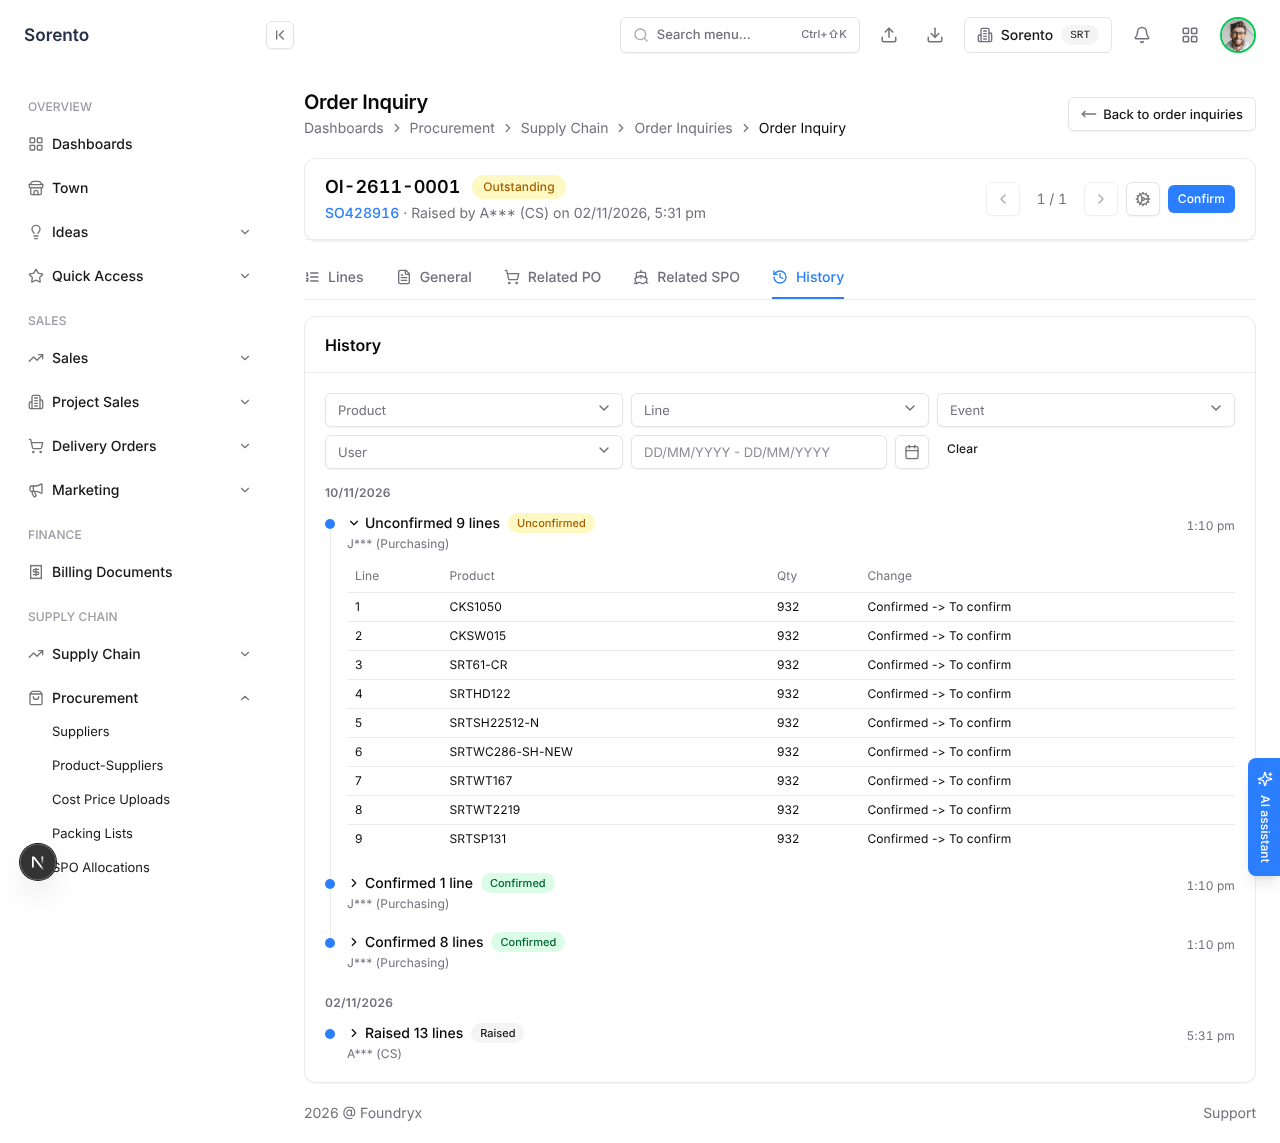
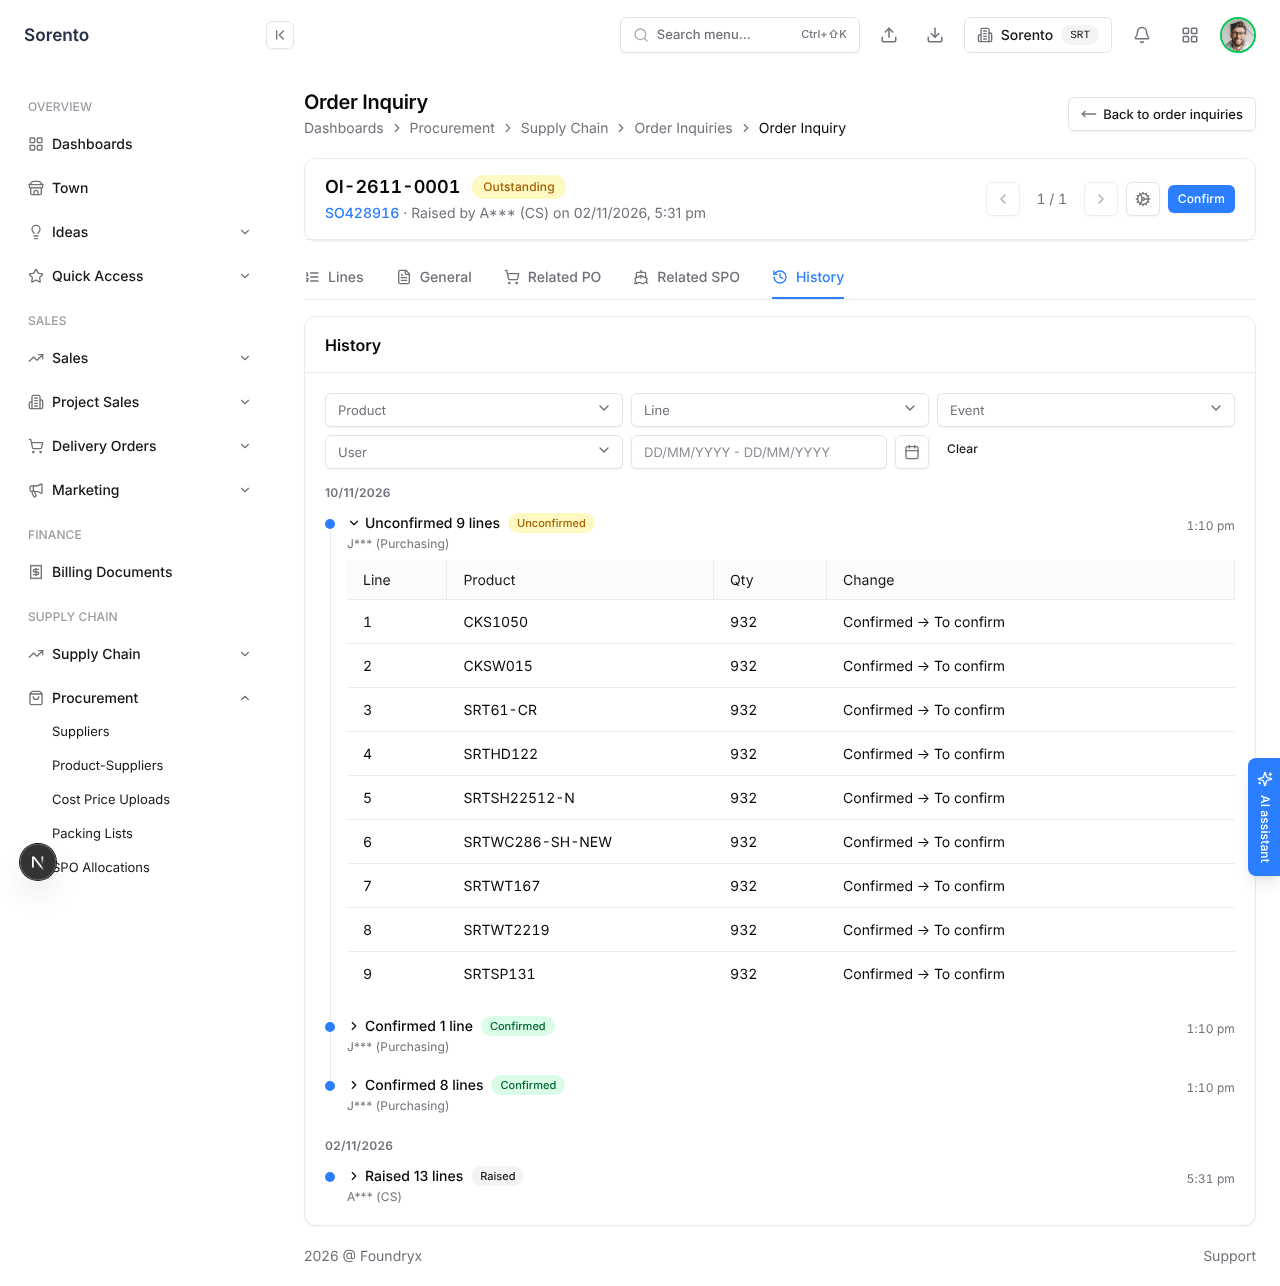
STANDARD-HISTORY wave 1: event lines in the standard DataGrid (M5-06 raw-table guard), refreshed browser evidence [skip ci]
Claude-Session: https://claude.ai/code/session_01EKXEHjy5Ljp9hHMAEtqsHU

diff --git a/sorento_crm_frontend/components/history/RecordHistory.tsx b/sorento_crm_frontend/components/history/RecordHistory.tsx
@@ -6,7 +6,9 @@ import { Badge } from '@/components/ui/badge';
 import { Button } from '@/components/ui/button';
 import { DateRangePicker } from '@/components/ui/date-range-picker';
 import { Skeleton } from '@/components/ui/skeleton';
-import { Table, TableBody, TableCell, TableHead, TableHeader, TableRow } from '@/components/ui/table';
+import { type ColumnDef, getCoreRowModel, useReactTable } from '@tanstack/react-table';
+import { DataGrid } from '@/components/ui/data-grid';
+import { DataGridTable } from '@/components/ui/data-grid-table';
 import { SearchableSelect } from '@/components/common/SearchableSelect';
 import { SearchableMultiSelect } from '@/components/common/SearchableMultiSelect';
 import { EventTimeline, type TimelineEvent } from '@/components/common/EventTimeline';
@@ -21,8 +23,8 @@ export type { RecordHistoryEvent, RecordHistoryLine };
  * components that we had in the system, don't invent new things" - so this is the SO History
  * drawer's own body (`PlanningHistorySheet.tsx`) lifted out of its Sheet: the same filters
  * (SearchableSelect / SearchableMultiSelect / DateRangePicker / Clear), the same
- * `EventTimeline`, the same light `Badge`, and the same expand-to-lines table. Nothing here
- * is a new visual.
+ * `EventTimeline`, the same light `Badge`, and the same expand-to-lines read. The lines are
+ * the standard `DataGrid` (M5-06 forbids a new raw table). Nothing here is a new visual.
  *
  * A batch press (one Unconfirm that moved 9 lines) is ONE event whose `lines` name every
  * row; a Product or Line filter narrows the lines shown and keeps the event whole.
@@ -49,31 +51,77 @@ function isoDay(at: string | null): string | null {
   return y && m && d ? `${y}-${m}-${d}` : null;
 }
 
+function Truncated({ text }: { text: string }) {
+  return (
+    <span className="block truncate" title={text}>
+      {text}
+    </span>
+  );
+}
+
+/** One row per line, in the standard DataGrid (M5-06: no raw tables), the OI line History
+ * dialog's own fixed, resizable read-only grid (`OrderInquiryLineHistoryDialog.tsx`). */
+const LINE_COLUMNS: ColumnDef<RecordHistoryLine>[] = [
+  {
+    id: 'line',
+    header: 'Line',
+    size: 64,
+    enableSorting: false,
+    meta: { headerTitle: 'Line' },
+    cell: ({ row }) => <span className="tabular-nums">{row.original.so_line_no ?? ''}</span>,
+  },
+  {
+    id: 'product',
+    header: 'Product',
+    size: 170,
+    enableSorting: false,
+    meta: { headerTitle: 'Product' },
+    cell: ({ row }) => <Truncated text={row.original.item_code ?? ''} />,
+  },
+  {
+    id: 'qty',
+    header: 'Qty',
+    size: 72,
+    enableSorting: false,
+    meta: { headerTitle: 'Qty' },
+    cell: ({ row }) => <span className="tabular-nums">{row.original.qty ?? ''}</span>,
+  },
+  {
+    id: 'change',
+    header: 'Change',
+    size: 260,
+    enableSorting: false,
+    meta: { headerTitle: 'Change' },
+    cell: ({ row }) => <Truncated text={row.original.change} />,
+  },
+];
+
 function LinesTable({ lines }: { lines: RecordHistoryLine[] }) {
+  const table = useReactTable({
+    columns: LINE_COLUMNS,
+    data: lines,
+    getRowId: (line) => line.row_id,
+    getCoreRowModel: getCoreRowModel(),
+    columnResizeMode: 'onChange',
+    enableColumnResizing: true,
+  });
   if (lines.length === 0) return null;
   return (
-    <div className="mt-2 overflow-x-auto">
-      <Table className="text-xs">
-        <TableHeader>
-          <TableRow>
-            {['Line', 'Product', 'Qty', 'Change'].map((name) => (
-              <TableHead key={name} className="h-8 px-2">
-                {name}
-              </TableHead>
-            ))}
-          </TableRow>
-        </TableHeader>
-        <TableBody>
-          {lines.map((line) => (
-            <TableRow key={line.row_id}>
-              <TableCell className="px-2 py-1.5 break-words">{line.so_line_no ?? ''}</TableCell>
-              <TableCell className="px-2 py-1.5 break-words">{line.item_code ?? ''}</TableCell>
-              <TableCell className="px-2 py-1.5 break-words">{line.qty ?? ''}</TableCell>
-              <TableCell className="px-2 py-1.5 break-words">{line.change}</TableCell>
-            </TableRow>
-          ))}
-        </TableBody>
-      </Table>
+    <div className="mt-2">
+      <DataGrid
+        table={table}
+        recordCount={lines.length}
+        tableLayout={{
+          width: 'fixed',
+          columnsResizable: true,
+          // A fixed read of one event's lines: no saved column preference to drag into.
+          columnsDraggable: false,
+          // The page (or the dialog body) owns the vertical scroll.
+          scrollerMaxHeight: false,
+        }}
+      >
+        <DataGridTable />
+      </DataGrid>
     </div>
   );
 }

diff --git a/sorento_crm_frontend/components/history/RecordHistory.test.tsx b/sorento_crm_frontend/components/history/RecordHistory.test.tsx
@@ -1,3 +1,4 @@
+import { QueryClient, QueryClientProvider } from '@tanstack/react-query';
 import { fireEvent, render, screen, within } from '@testing-library/react';
 import { describe, expect, it, vi } from 'vitest';
 import { RecordHistory, type RecordHistoryEvent } from './RecordHistory';
@@ -67,15 +68,19 @@ const LABELS = {
 };
 
 function renderHistory(props: Partial<React.ComponentProps<typeof RecordHistory>> = {}) {
+  // The lines are a DataGrid, which reads column preferences through React Query.
+  const client = new QueryClient({ defaultOptions: { queries: { retry: false } } });
   return render(
-    <RecordHistory
-      events={EVENTS}
-      kindLabels={LABELS}
-      isLoading={false}
-      isError={false}
-      onRetry={() => {}}
-      {...props}
-    />,
+    <QueryClientProvider client={client}>
+      <RecordHistory
+        events={EVENTS}
+        kindLabels={LABELS}
+        isLoading={false}
+        isError={false}
+        onRetry={() => {}}
+        {...props}
+      />
+    </QueryClientProvider>,
   );
 }
 
